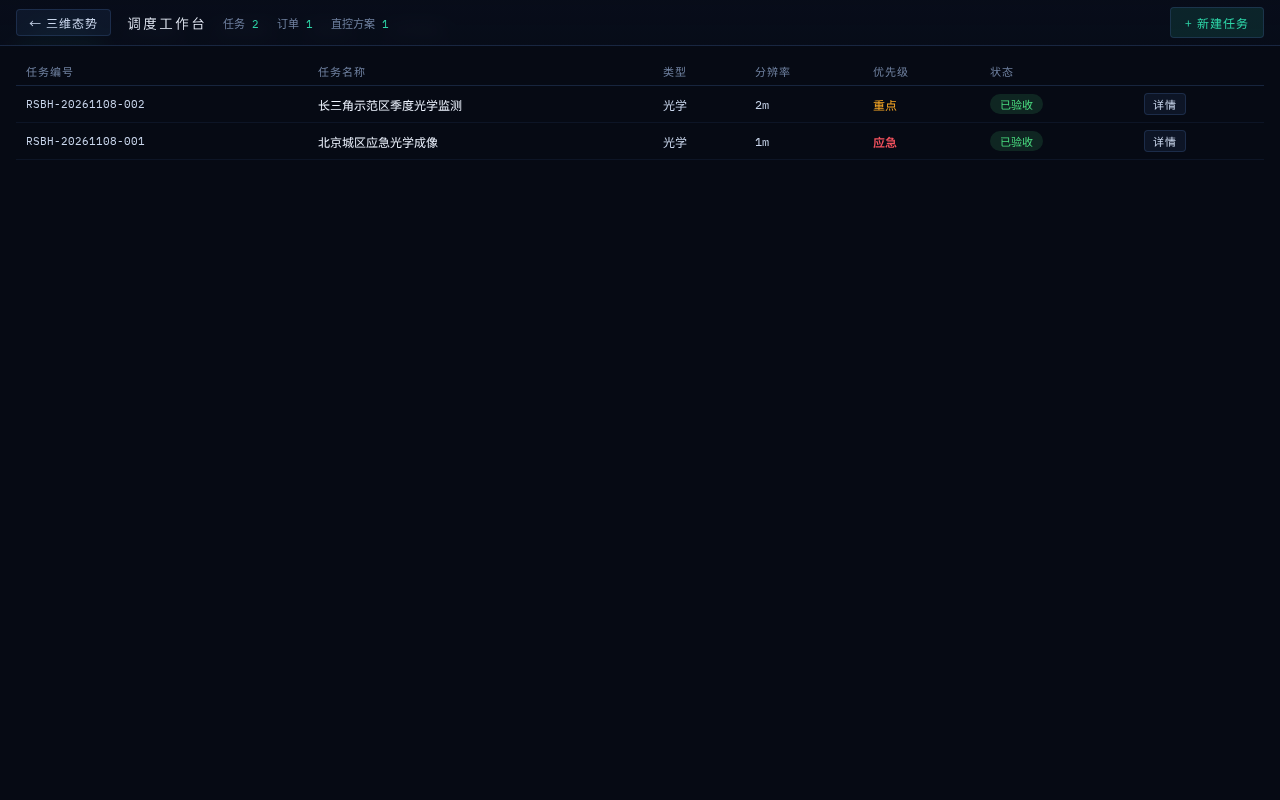
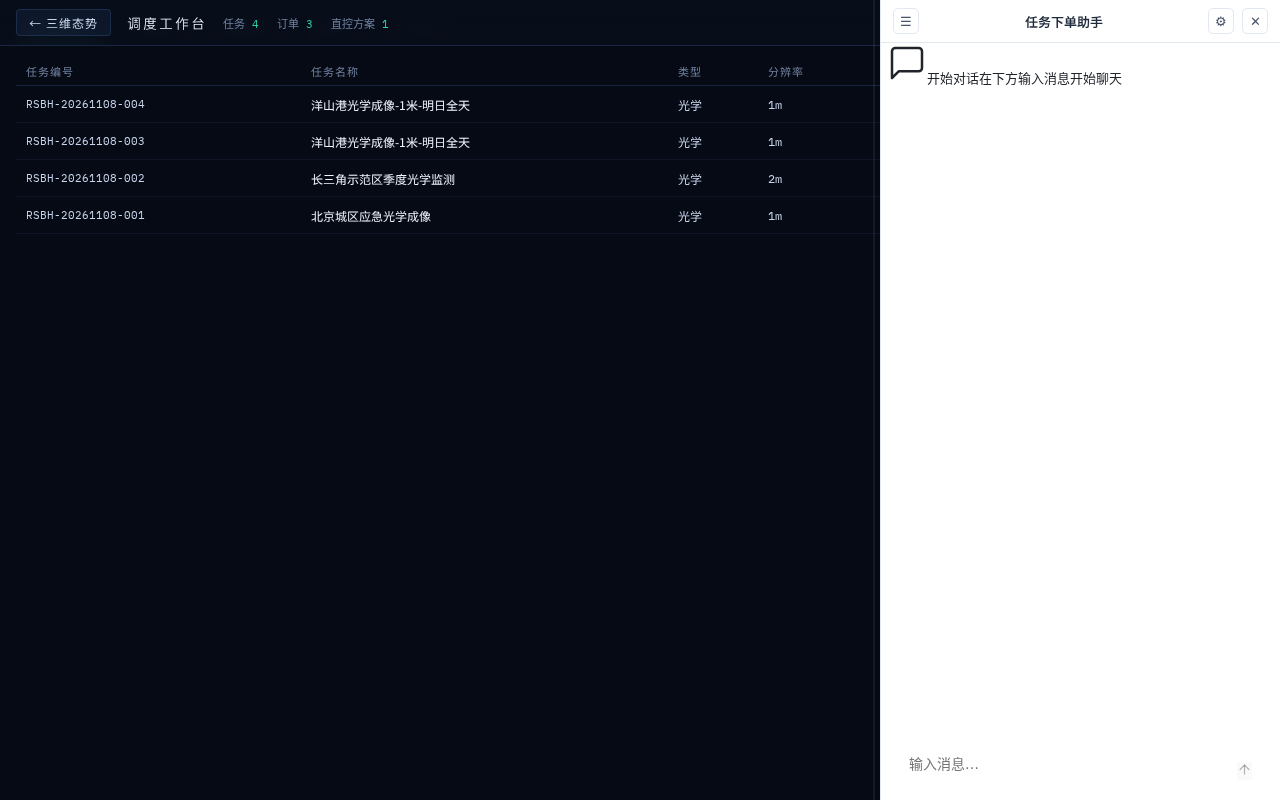
AI面板布局修复（固定右侧容器z-index）+ 会话创建重试机制，浏览器端会话建立成功

diff --git a/client/src/agent/AgentPane.jsx b/client/src/agent/AgentPane.jsx
@@ -146,11 +146,22 @@ export function AgentPane({ visible, onClose, getContext }) {
       setModels(models);
       const model = selectedModel || catalog.defaultServiceModel;
       setSelectedModel(model);
-      const created = await client.sessions.create({
-        solution: { role: "dispatch-agent", files: solutionFiles },
-        skills: [{ name: "my/dispatch-ops", files: skillFiles }],
-        config: { model },
-      });
+      // Solution/Skill 首次上传较慢，超时自动重试一次
+      let created;
+      try {
+        created = await client.sessions.create({
+          solution: { role: "dispatch-agent", files: solutionFiles },
+          skills: [{ name: "my/dispatch-ops", files: skillFiles }],
+          config: { model },
+        });
+      } catch (e1) {
+        setConnectError("首次连接超时，正在重试…");
+        created = await client.sessions.create({
+          solution: { role: "dispatch-agent", files: solutionFiles },
+          skills: [{ name: "my/dispatch-ops", files: skillFiles }],
+          config: { model },
+        });
+      }
       setSession(null);
       setSessionId(created.sessionId);
       setConnected(true);
@@ -207,7 +218,7 @@ export function AgentPane({ visible, onClose, getContext }) {
   if (!visible) return null;
 
   return (
-    <>
+    <div style={{ position: "fixed", top: 0, right: 0, bottom: 0, zIndex: 350, display: "flex" }}>
       <div className="blade-resizer" onPointerDown={startResize} onDoubleClick={() => setChatWidth(400)}
         role="separator" aria-orientation="vertical" tabIndex={0} />
       <div style={{
@@ -265,7 +276,7 @@ export function AgentPane({ visible, onClose, getContext }) {
         {showSettings && <SettingsModal models={models} selectedModel={selectedModel}
           onSelectModel={setSelectedModel} onClose={() => setShowSettings(false)} />}
       </div>
-    </>
+    </div>
   );
 }
 
